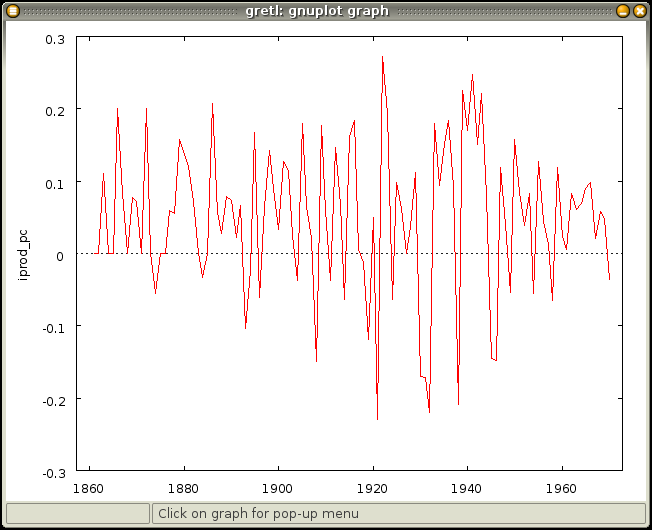
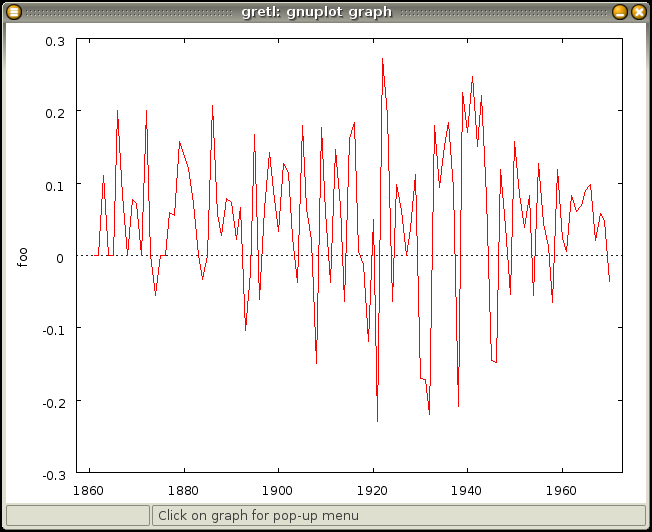
manual updates

diff --git a/doc/tex/functions.tex b/doc/tex/functions.tex
@@ -221,20 +221,21 @@ series resid = get_uhat_and_ess(price, xlist, &SSR)
 %
 In the above, we may say that the function is given the \emph{address}
 of the scalar variable \texttt{SSR}, and it assigns a value to that
-variable (under the name \texttt{ess}).  For anyone used to
-programming in C, note that it is not necessary (or even possible) to
+variable (under the local name \texttt{ess}).  (For anyone used to
+programming in C: note that it is not necessary, or even possible, to
 ``dereference'' the variable in question within the function using the
 \texttt{*} operator.  Unembellished use of the name of the variable is
-sufficient to access the variable in outer scope.
+sufficient to access the variable in outer scope.)
 
-The specification of one or more such special parameters in the
-definition of a function may be used to offer optional information to
-the caller.  If the ``address'' parameter is optional, this should be
-marked by providing a default value of \texttt{null}.  In that case
-the function should test to see if the caller supplied a corresponding
-argument or not, using the built-in function \texttt{isnull()}.  For
-example, here is the simple function shown above, modified to make the
-filling out of the \texttt{ess} value optional.
+An ``address'' parameter of this sort can be used as a means of
+offering optional information to the caller.  (That is, the
+corresponding argument is not strictly needed, but will be used if
+present).  In that case the parameter should be given a default value
+of \texttt{null} and the the function should test to see if the caller
+supplied a corresponding argument or not, using the built-in function
+\texttt{isnull()}.  For example, here is the simple function shown
+above, modified to make the filling out of the \texttt{ess} value
+optional.
 %
 \begin{code}
 function get_uhat_and_ess(series y, list xvars, scalar *ess[null])
@@ -257,8 +258,8 @@ series resid = get_uhat_and_ess(price, xlist, null)
 \subsection{List arguments}
 
 The use of a named list as an argument to a function gives a means of
-supplying a function with a number of variables that is unknown when
-the function is written --- for example, sets of regressors or
+supplying a function with a set of variables whose number is unknown
+when the function is written --- for example, sets of regressors or
 instruments.  Within the function, the list can be passed on to
 commands such as \texttt{ols}, or it can be ``unpacked'' using a
 \texttt{foreach} loop construct.  For example, suppose you have a list
@@ -280,7 +281,7 @@ another means of allowing a function to do more in the way of
 modifying data at the level of the caller than simply offering a
 return value.  If the variables will \textit{not} be modified inside
 the function, it is a good idea to flag this fact using the
-\texttt{const} modifier in the parameter list, as in
+\texttt{const} modifier in the listing of parameters:
 %
 \begin{code}
 function myfunc (scalar y, const list X)
@@ -309,7 +310,7 @@ argument.)
 Functions can return nothing (just printing a result, perhaps), or
 they can return a single variable --- a scalar, series or matrix.  The
 return value, if any, is specified via a statement within the function
-body beginning with the keyword \verb+return+, followed by type
+body beginning with the keyword \verb+return+, followed by a type
 specifier and the name of a variable (as in the listing of
 parameters).  There can be only one such statement.  An example of a
 valid return statement is shown below:
@@ -320,16 +321,23 @@ return scalar SSR
 %
 Note that the \verb+return+ statement does \emph{not} cause the
 function to return (exit) at the point where it appears within the
-body of the function. Rather, it specifies which variable is
-available for assignment when the function exits, and a function exits
-only when (a) the end of the function code is reached, (b) a
-\verb+funcerr+ statement is reached (see below), or (c) a gretl error
-occurs.
-    
+body of the function. Rather, it specifies which variable is available
+for assignment when the function exits, and a function exits only when
+(a) the end of the function code is reached, (b) a \app{gretl} error
+occurs, or (c) a \verb+funcerr+ statement is reached.
+
 The \verb+funcerr+ keyword, which may be followed by a string enclosed
 in double quotes, causes a function to exit with an error flagged.  If
-a string is provided, this is printed on exit otherwise a generic
-error message is printed.
+a string is provided, this is printed on exit, otherwise a generic
+error message is printed.  This mechanism enables the author of a
+function to pre-empt an ordinary execution error and/or offer a more
+specific and helpful error message.  For example,
+%
+\begin{code}
+if nelem(xlist) = 0
+   funcerr "xlist must not be empty"
+end if
+\end{code}
     
 
 \subsection{Error checking}
@@ -415,7 +423,8 @@ package'', ``New package''.
 
 Select ``New package'' (the command will return an error message,
 unless at least one user-defined function is currently loaded in
-memory --- see previous point); in the first dialog you get to select:
+memory --- see the previous point); in the first dialog you get to
+select:
 
 \begin{itemize}
 \item A public function to package.
@@ -488,12 +497,12 @@ button.
 
 After loading the function(s) from the package, open the GUI console.
 Try typing \texttt{help foo}, replacing \texttt{foo} with the name of
-a public interface from the loaded function package: if any help text
+the public interface from the loaded function package: if any help text
 was provided for the function, it should be presented.
 
-In a similar way, you can browse and load the functions packages
-available on gretl's server, by selecting ``File, Function files, On
-server''.
+In a similar way, you can browse and load the function packages
+available on the \app{gretl} server, by selecting ``File, Function
+files, On server''.
 
 Once your package is installed on your local machine, you can use the
 function it contains via the graphical interface as described above,
@@ -514,12 +523,15 @@ with \app{gretl} among the sample datasets). Suppose you want to
 compute the rate of change for the variable \texttt{iprod} via your
 new function and store the result in a series named \texttt{foo}.
 
-Go to ``File, Function files, On local machine''.  You will be
-shown a list of the installed packages, including the one you have
-just created. If you select it and click on ``Execute'', a window
-similar to the one shown in figure \ref{fig:function_call} will appear.
-Click ``Ok'' and the series \texttt{foo} will be generated (see figure
-\ref{fig:iprod_pc}).
+Go to ``File, Function files, On local machine''.  You will be shown a
+list of the installed packages, including the one you have just
+created. If you select it and click on ``Execute'' (or double-click on
+the name of the function package), a window similar to the one shown
+in figure \ref{fig:function_call} will appear.  Click ``Ok'' and the
+series \texttt{foo} will be generated (see figure \ref{fig:iprod_pc}).
+You may have to go to ``Data, Refresh data'' in order to have your new
+variable show up in the main window variable list (or just press the
+``r'' key).
 
 \begin{figure}[htbp]
   \centering
@@ -532,7 +544,7 @@ Alternatively, the same could have been accomplished by the script
 \begin{code}
 include pc.gfn
 open np
-iprod_pc = pc(iprod)
+foo = pc(iprod)
 \end{code}
 
 %%% Local Variables: 

diff --git a/doc/tex/starting.tex b/doc/tex/starting.tex
@@ -387,23 +387,25 @@ may be performed using the keyboard, as shown in the table below.
 
 \begin{center}
 \begin{tabular}{lp{5in}}
-\texttt{Return} & Opens a window displaying the values of the currently
+  \texttt{Return} & Opens a window displaying the values of the currently
   selected variables: it is the same as selecting ``Data, Display
   Values''. \\
-\texttt{Delete} & Pressing this key has the effect of deleting the
+  \texttt{Delete} & Pressing this key has the effect of deleting the
   selected variables. A confirmation is required, to prevent
   accidental deletions. \\
-\texttt{e} & Has the same effect as selecting ``Edit
+  \texttt{e} & Has the same effect as selecting ``Edit
   attributes'' from the ``Variable'' menu. \\
-\texttt{F2} & Same as ``e''. Included for compatibility with other
+  \texttt{F2} & Same as ``e''. Included for compatibility with other
   programs.\\
-\texttt{g} & Has the same effect as selecting ``Define new
+  \texttt{g} & Has the same effect as selecting ``Define new
   variable'' from the ``Variable'' menu (which maps onto the
   \texttt{genr} command).\\
-\texttt{h} & Opens a help window for gretl commands.\\
-\texttt{F1} & Same as ``h''. Included for compatibility with other
+  \texttt{h} & Opens a help window for gretl commands.\\
+  \texttt{F1} & Same as ``h''. Included for compatibility with other
   programs.\\
-\texttt{t} & Graphs the selected variable; a line graph is used for
+  \texttt{r} & Refreshes the variable list in the main window: has 
+  the same effect as selecting ``Refresh window'' from the ``Data'' menu. \\
+  \texttt{t} & Graphs the selected variable; a line graph is used for
   time-series datasets, whereas a distribution plot is used for
   cross-sectional data. 
 \end{tabular}
